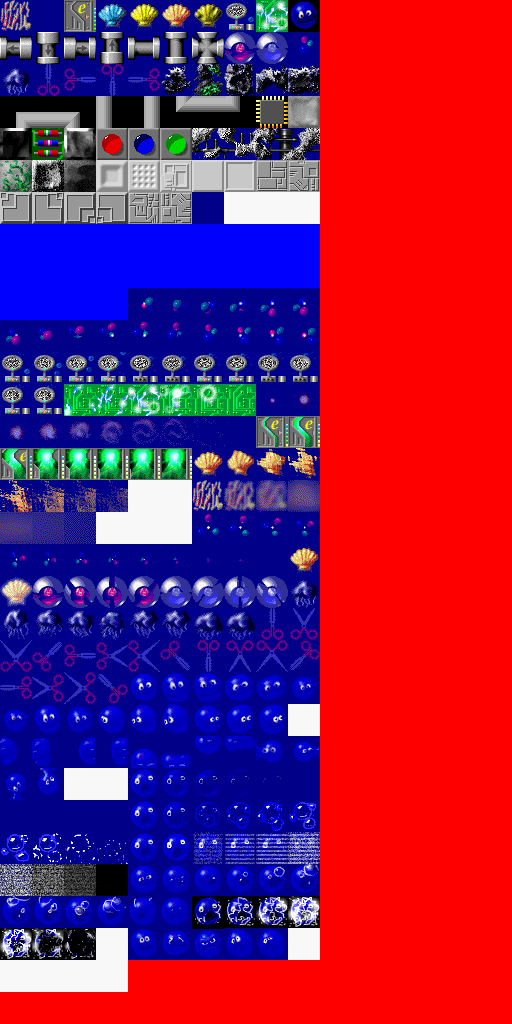
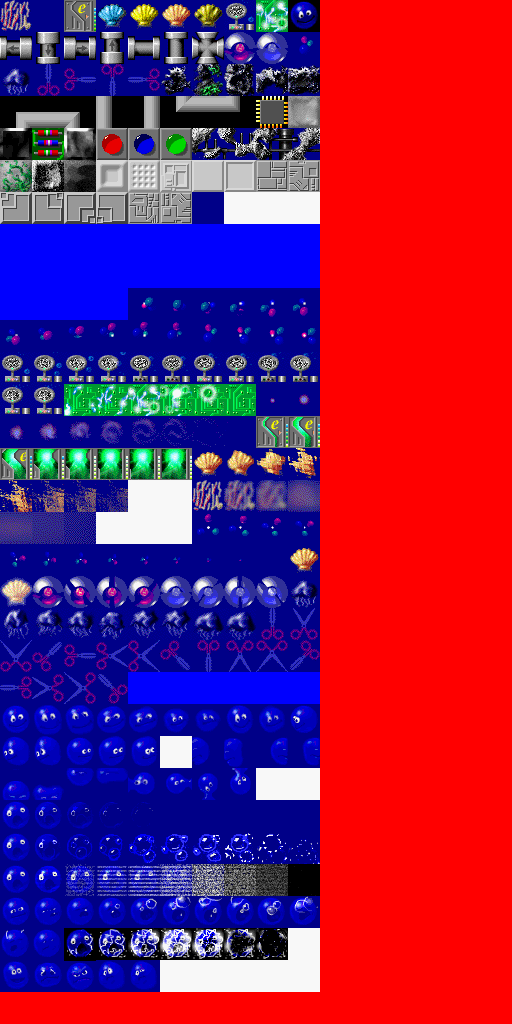
Better texture assembly -- put the murphy animations in a better location. Also, add those textures to the project.

Changed region(s): [[0.0, 0.6562, 0.625, 0.9688]]

diff --git a/legacy/assemble-opengl-texture.py b/legacy/assemble-opengl-texture.py
@@ -31,7 +31,7 @@ FILE_INFO = [
     ("red-zonk.bmp", 0, 4),
     ("blue-zonk.bmp", 0, 4),
     ("plasmoid.bmp", 0, 9),
-    ("robot.bmp", 1, 16),
+    ("robot.bmp", 1, 22), # really 16, but extend to include oliver.bmp in nice location
     ("oliver.bmp", 1, 90) ]
     
 def fill_rect(target_pixels, rect, color):
